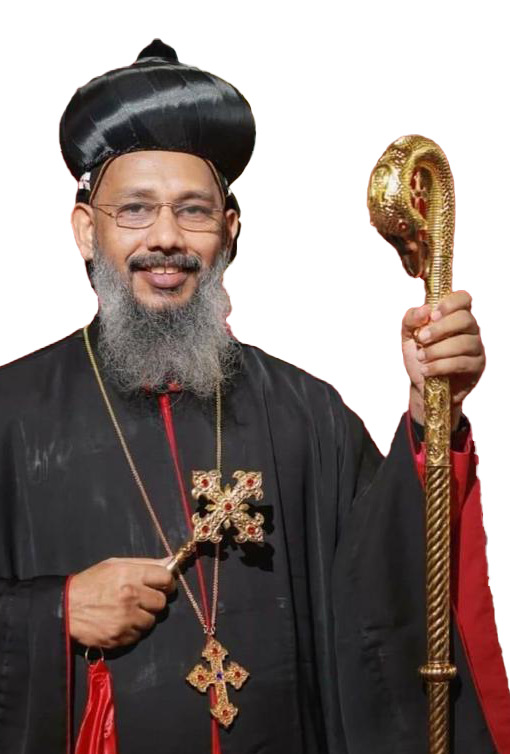
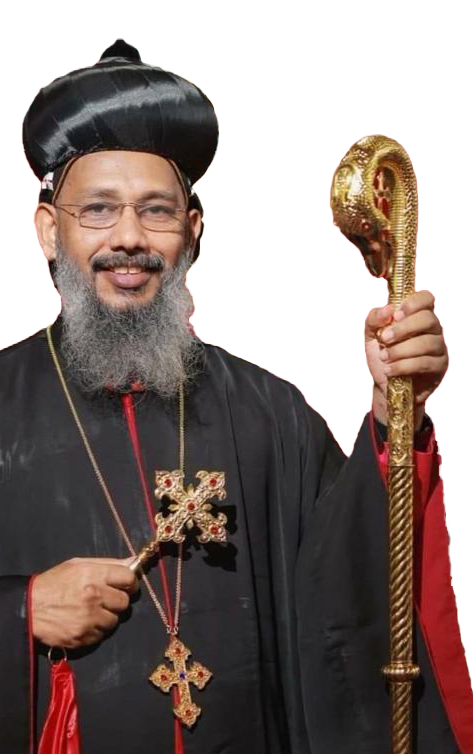
📈 add analytics, add qoutes from presidents, fix image sizes

diff --git a/src/components/ui/flip-words.tsx b/src/components/ui/flip-words.tsx
@@ -1,0 +1,98 @@
+"use client";
+import React, { useCallback, useEffect, useState } from "react";
+import { AnimatePresence, motion } from "framer-motion";
+import { cn } from "@/lib/utils";
+
+export const FlipWords = ({
+  words,
+  duration = 3000,
+  className,
+}: {
+  words: string[];
+  duration?: number;
+  className?: string;
+}) => {
+  const [currentWord, setCurrentWord] = useState(words[0]);
+  const [isAnimating, setIsAnimating] = useState<boolean>(false);
+
+  // thanks for the fix Julian - https://github.com/Julian-AT
+  const startAnimation = useCallback(() => {
+    const word = words[words.indexOf(currentWord) + 1] || words[0];
+    setCurrentWord(word);
+    setIsAnimating(true);
+  }, [currentWord, words]);
+
+  useEffect(() => {
+    if (!isAnimating)
+      setTimeout(() => {
+        startAnimation();
+      }, duration);
+  }, [isAnimating, duration, startAnimation]);
+
+  return (
+    <AnimatePresence
+      onExitComplete={() => {
+        setIsAnimating(false);
+      }}
+    >
+      <motion.div
+        initial={{
+          opacity: 0,
+          y: 10,
+        }}
+        animate={{
+          opacity: 1,
+          y: 0,
+        }}
+        transition={{
+          type: "spring",
+          stiffness: 100,
+          damping: 10,
+        }}
+        exit={{
+          opacity: 0,
+          y: -40,
+          x: 40,
+          filter: "blur(8px)",
+          scale: 2,
+          position: "absolute",
+        }}
+        className={cn(
+          "z-10 inline-block relative text-left text-neutral-900 dark:text-neutral-100 px-2",
+          className
+        )}
+        key={currentWord}
+      >
+        {/* edit suggested by Sajal: https://x.com/DewanganSajal */}
+        {currentWord.split(" ").map((word, wordIndex) => (
+          <motion.span
+            key={word + wordIndex}
+            initial={{ opacity: 0, y: 10, filter: "blur(8px)" }}
+            animate={{ opacity: 1, y: 0, filter: "blur(0px)" }}
+            transition={{
+              delay: wordIndex * 0.3,
+              duration: 0.3,
+            }}
+            className="inline-block whitespace-nowrap"
+          >
+            {word.split("").map((letter, letterIndex) => (
+              <motion.span
+                key={word + letterIndex}
+                initial={{ opacity: 0, y: 10, filter: "blur(8px)" }}
+                animate={{ opacity: 1, y: 0, filter: "blur(0px)" }}
+                transition={{
+                  delay: wordIndex * 0.3 + letterIndex * 0.05,
+                  duration: 0.2,
+                }}
+                className="inline-block"
+              >
+                {letter}
+              </motion.span>
+            ))}
+            <span className="inline-block">&nbsp;</span>
+          </motion.span>
+        ))}
+      </motion.div>
+    </AnimatePresence>
+  );
+};

diff --git a/src/app/layout.tsx b/src/app/layout.tsx
@@ -1,12 +1,9 @@
 import type { Metadata } from "next";
 import localFont from "next/font/local";
 import "./globals.css";
-import Image from "next/image";
-import { MenuIcon } from "lucide-react";
 import { Crimson_Text } from "next/font/google";
-import { IMAGES } from "@/assets";
-import Link from "next/link";
-import { CustomButton } from "@/features/landing-page/components/CustomButtom";
+import { Analytics } from "@vercel/analytics/react";
+import Header from "@/components/shared/top-navbar";
 
 const satoshi = localFont({
   src: "../assets/fonts/Satoshi-Variable.ttf",
@@ -82,36 +79,9 @@ export default function RootLayout({
         className={`${crimsonText.variable} ${satoshi.className} ${neue.variable} antialiased bg-brand-bg`}
       >
         <main className="flex flex-col min-h-screen relative">
-          <header className="flex items-center justify-between w-full ">
-            <div className="fixed top-0 w-full p-4 flex items-center justify-between z-40 bg-brand-bg px-10">
-              <Image
-                src={IMAGES.logo}
-                alt="logo"
-                className="h-10 object-contain w-fit"
-              />
-              <nav className="hidden md:flex gap-x-4 ">
-                <Link href="/" className="hover:underline">
-                  About Us
-                </Link>
-                <Link href="/" className="hover:underline">
-                  Units
-                </Link>
-                <Link href="/" className="hover:underline">
-                  Publications
-                </Link>
-                <Link href="/" className="hover:underline">
-                  Our Faith
-                </Link>
-              </nav>
-              <div className="hidden md:flex">
-                <CustomButton text="Register" />
-              </div>
-              <div className="md:hidden">
-                <MenuIcon />
-              </div>
-            </div>
-          </header>
+          <Header />
           {children}
+          <Analytics />
         </main>
       </body>
     </html>

diff --git a/src/features/landing-page/components/presidents-section.tsx b/src/features/landing-page/components/presidents-section.tsx
@@ -7,23 +7,29 @@ export default function Presidents() {
   const presidents = [
     {
       name: "John Doe",
-
+      quote:
+        "Let MGOCSM remain the spiritual torch bearer for the younger generation of Malankara Orthodox Church in future as well. God Bless you all.",
       image: IMAGES.thirumeni,
     },
     {
       name: "John Doe",
-
+      quote:
+        "I wish many more years of Growth, learning and making difference together. Let us Pray to God almighty for his bountiful blessings on our Church and MGOCSM",
       image: IMAGES.assistantThirumeni,
     },
   ];
 
   function QuoteCard({
-    name,
-    image,
+    data,
   }: {
-    name: string;
-    image: StaticImageData;
+    data: {
+      name: string;
+      quote: string;
+      image: StaticImageData;
+    };
   }) {
+    const { image, name, quote } = data;
+
     return (
       <div className="bg-[#F0F3ED] flex rounded-3xl h-[463px] w-full overflow-hidden relative">
         <div className="flex-grow relative">
@@ -34,10 +40,8 @@ export default function Presidents() {
           />
         </div>
         <div className="p-10 absolute flex items-end justify-end">
-          <p className="text-navy-blue text-md md:text-lg font-extrabold tracking-tighter w-1/2">
-            Lorem ipsum dolor sit amet, consectetur adipiscing elit. Ut gravida,
-            elit eu interdum pellentesque, mi eros porta ligula, in finibus eros
-            massa sit amet quam. Fusce cursus varius porttitor.
+          <p className="text-navy-blue text-md md:text-lg font-extrabold tracking-tighter w-1/2 text-right md:text-left pt-0 md:pt-6">
+            {quote}
           </p>
         </div>
       </div>
@@ -77,7 +81,7 @@ export default function Presidents() {
         viewport={{ once: true }}
       >
         {presidents.map((president) => (
-          <QuoteCard key={president.name} {...president} />
+          <QuoteCard key={president.name} data={president} />
         ))}
       </motion.div>
     </div>

diff --git a/src/components/shared/top-navbar.tsx b/src/components/shared/top-navbar.tsx
@@ -1,0 +1,39 @@
+import Image from "next/image";
+import { MenuIcon } from "lucide-react";
+import { IMAGES } from "@/assets";
+import Link from "next/link";
+import { CustomButton } from "@/features/landing-page/components/CustomButtom";
+
+export default function Header() {
+  return (
+    <header className="flex items-center justify-between w-full ">
+      <div className="fixed top-0 w-full p-4 flex items-center justify-between z-40 bg-brand-bg px-10">
+        <Image
+          src={IMAGES.logo}
+          alt="logo"
+          className="h-10 object-contain w-fit"
+        />
+        <nav className="hidden md:flex gap-x-4 ">
+          <Link href="/" className="hover:underline">
+            About Us
+          </Link>
+          <Link href="/" className="hover:underline">
+            Units
+          </Link>
+          <Link href="/" className="hover:underline">
+            Publications
+          </Link>
+          <Link href="/" className="hover:underline">
+            Our Faith
+          </Link>
+        </nav>
+        <div className="hidden md:flex">
+          <CustomButton text="Register" />
+        </div>
+        <div className="md:hidden">
+          <MenuIcon />
+        </div>
+      </div>
+    </header>
+  );
+}

diff --git a/src/features/landing-page/components/hero-section.tsx b/src/features/landing-page/components/hero-section.tsx
@@ -5,6 +5,9 @@ import Image from "next/image";
 import React from "react";
 import { CustomButton } from "./CustomButtom";
 import { motion } from "framer-motion";
+// import { FlipWords } from "@/components/ui/flip-words";
+
+// const words = ["मुंबई", "Bombay", "മുംബൈ"];
 
 export function Hero() {
   return (
@@ -65,7 +68,8 @@ export function Hero() {
               Orthodox Christian <br className="inline-block md:hidden" />
             </span>
             youth in <br className="hidden md:block" />
-            <span className="text-navy-blue rounded-2xl font-neue mx-4">
+            <span className="text-navy-blue rounded-2xl font-crimson font-bold mx-4">
+              {/* <FlipWords words={["मुंबई", "Bombay", "മുംബൈ"]} /> */}
               मुंबई
             </span>
             Today?
